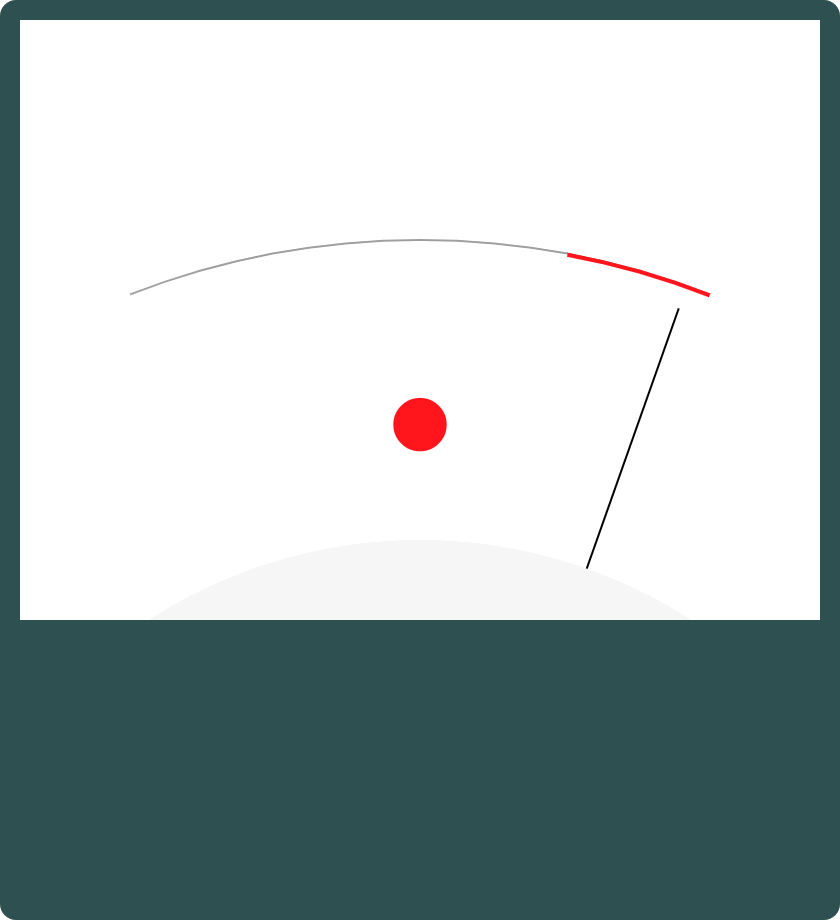
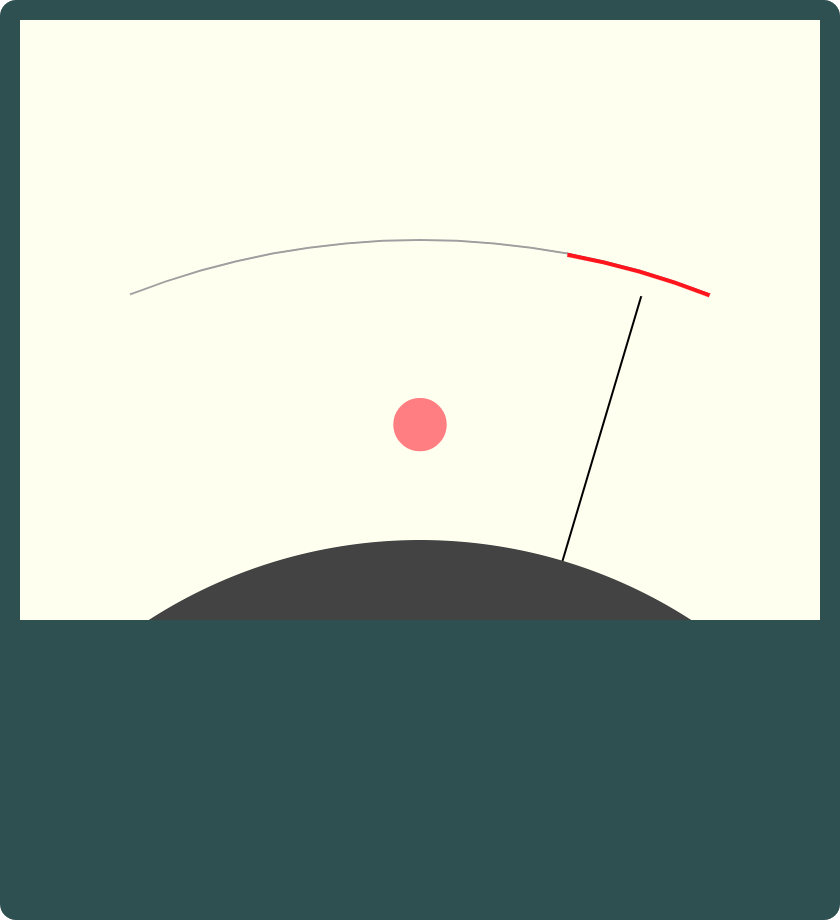
Styling improvements

diff --git a/src/components/VuMeter.js b/src/components/VuMeter.js
@@ -7,10 +7,10 @@ export default class App extends Component {
   constructor () {
     super()
 
-    this.canvasRef = null             // handle to Canvas used to get access to drawing context
-    this.boost = 3                    // input volume boost
-    this.percentageWarningArea = 0.25 // percentage of the top end volume range to consider too loud
-    this.canvasScaled = false         // whether or not the canvas has been scaled according to device pixel ratio
+    this.canvasRef = null             // Handle to Canvas used to get access to drawing context.
+    this.boost = 3                    // Input volume boost.
+    this.percentageWarningArea = 0.25 // Percentage of the top end volume range to consider too loud.
+    this.canvasScaled = false         // Whether or not the canvas has been scaled according to device pixel ratio.
   }
 
   componentDidMount () {
@@ -26,29 +26,31 @@ export default class App extends Component {
 
     ctx.clearRect(0, 0, canvas.width, canvas.height)
 
-    const x = canvas.width / 2    // center of the gauge in canvas x-axis
-    const y = canvas.height * 1.7 // center of the gauge in canvas y-axis
-    const radius = canvas.width   // radius of the gauge in canvas pixels
-    const startAngle = PI + 1.2   // start angle of the gauge in radians
-    const endAngle = 2 * PI - 1.2 // end angle of the gauge in radians
+    const x = canvas.width / 2    // Center of the gauge in canvas x-axis.
+    const y = canvas.height * 1.7 // Center of the gauge in canvas y-axis.
+    const radius = canvas.width   // Radius of the gauge in canvas pixels.
+    const startAngle = PI + 1.2   // Start angle of the gauge in radians.
+    const endAngle = 2 * PI - 1.2 // End angle of the gauge in radians.
 
     this.scaleCanvas(canvas)
     this.renderScale(canvas, x, y, radius, startAngle, endAngle)
     this.renderWarningLevel(canvas, x, y, radius, startAngle, endAngle)
-    // A warning light turns on when the audio is too loud
+    // A warning light turns on when the audio is too loud.
     this.renderWarningLight(canvas, x, y, radius)
     this.renderNeedle(canvas, x, y, radius, startAngle, endAngle)
-    // A shield covers the bottom of the gauge to make it look more like a real analog dial
+    // A shield covers the bottom of the gauge to make it look more like a real analog dial.
     this.renderNeedleShield(canvas, x, y, radius)
   }
 
   scaleCanvas (canvas) {
-    let ratio = window.devicePixelRatio || 1
-    if (!this.canvasScaled) {
-      this.canvasScaled = true
-      canvas.width /= ratio
-      canvas.height /= ratio
+    if (this.canvasScaled) {
+      return
     }
+    this.canvasScaled = true
+
+    let ratio = window.devicePixelRatio || 1
+    canvas.width /= ratio
+    canvas.height /= ratio
   }
 
   renderScale (canvas, x, y, radius, startAngle, endAngle) {
@@ -79,11 +81,11 @@ export default class App extends Component {
 
     const startAngle = 0
     const endAngle = 2 * PI
-    const clipping = (this.props.volume * this.boost) > (1 - this.percentageWarningArea)
+    const tooLoud = (this.props.volume * this.boost) > (1 - this.percentageWarningArea)
 
     ctx.beginPath()
     ctx.arc(x, y - radius / 1.3, radius / 30, startAngle, endAngle, false)
-    ctx.fillStyle = clipping ? '#ff0000' : '#f0f0f0'
+    ctx.fillStyle = tooLoud ? '#ff8080' : '#aebecf'
     ctx.fill()
   }
 
@@ -111,7 +113,7 @@ export default class App extends Component {
 
     ctx.beginPath()
     ctx.arc(x, y, radius / 1.6, startAngle, endAngle, false)
-    ctx.fillStyle = '#f6f6f6'
+    ctx.fillStyle = '#414141'
     ctx.fill()
   }
 

diff --git a/src/lib/VolumeMeter.js b/src/lib/VolumeMeter.js
@@ -2,17 +2,17 @@
 
 export default class VolumeMeter {
   constructor () {
-    this.volume = 0.0         // volume level at this time instant
-    this.smoothedVolume = 0.0 // volume level with smoothing to make it appear more analog
-    this.script = null        // handle to registered script processor used for cleanup
-    this.mic = null           // handle to mic used for cleanup
+    this.volume = 0.0         // Volume level at this time instant.
+    this.smoothedVolume = 0.0 // Volume level at this time instant with smoothing to simulate an analog gauge.
+    this.script = null        // Handle to registered script processor used for cleanup.
+    this.mic = null           // Handle to mic used for cleanup.
   }
 
   init (stream) {
     const bufferSize = 256
     const nInputChannels = 1
     const nOutputChannels = 1
-    const smoothingPercentage = 0.03
+    const smoothingPercentage = 0.03 // How much of the current value to mix in with the moving average when smoothing.
 
     let context
 

diff --git a/src/components/VuMeter.css b/src/components/VuMeter.css
@@ -2,4 +2,5 @@ canvas {
   border: 20px solid darkslategray;
   border-bottom: 300px solid darkslategray;
   border-radius: 16px;
+  background: ivory;
 }
